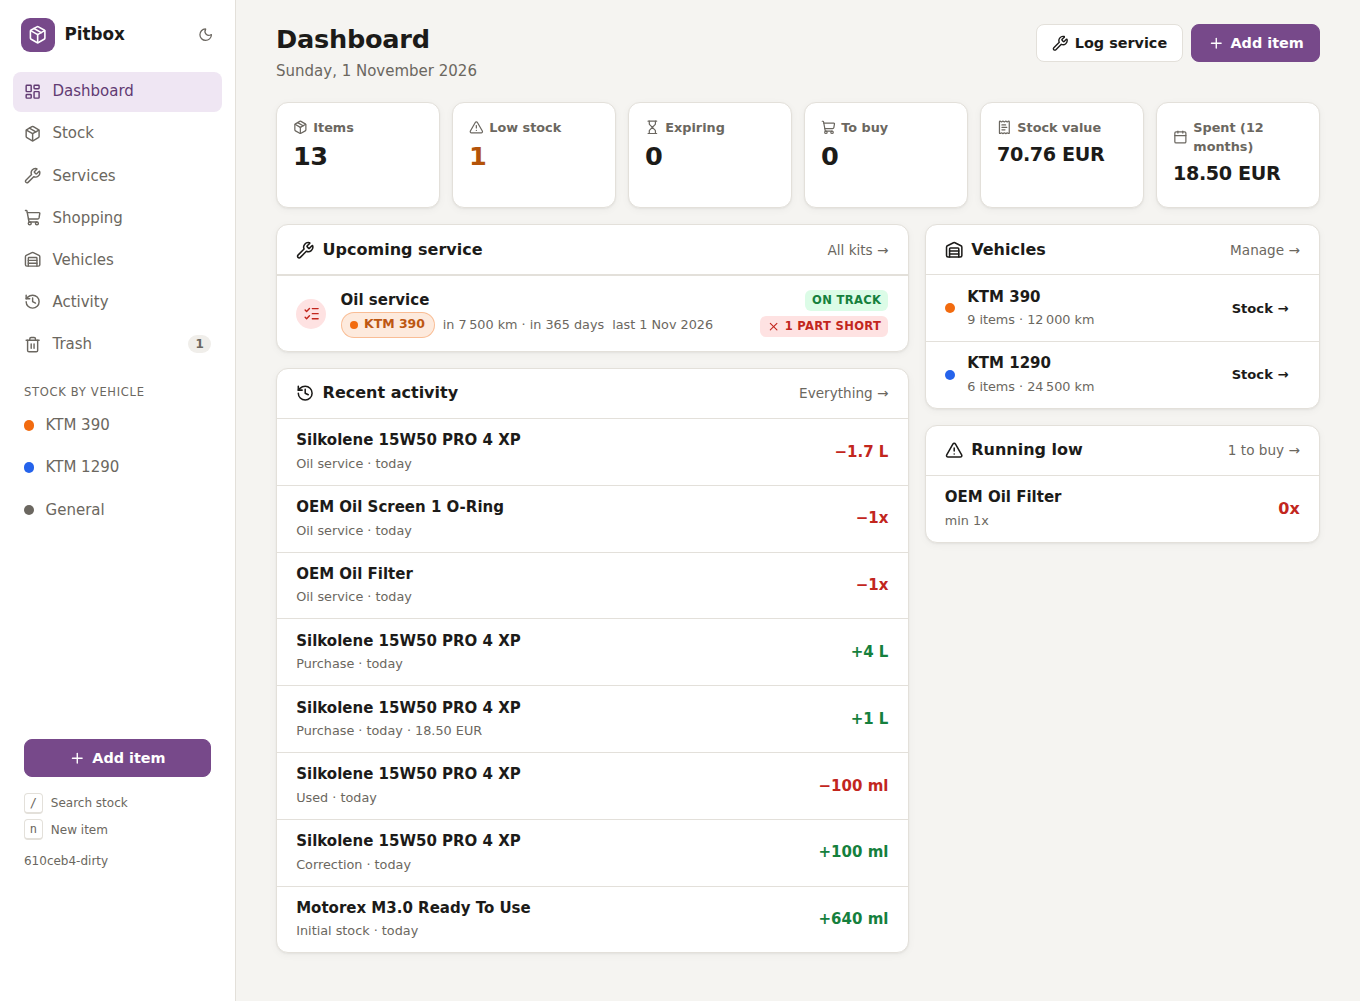
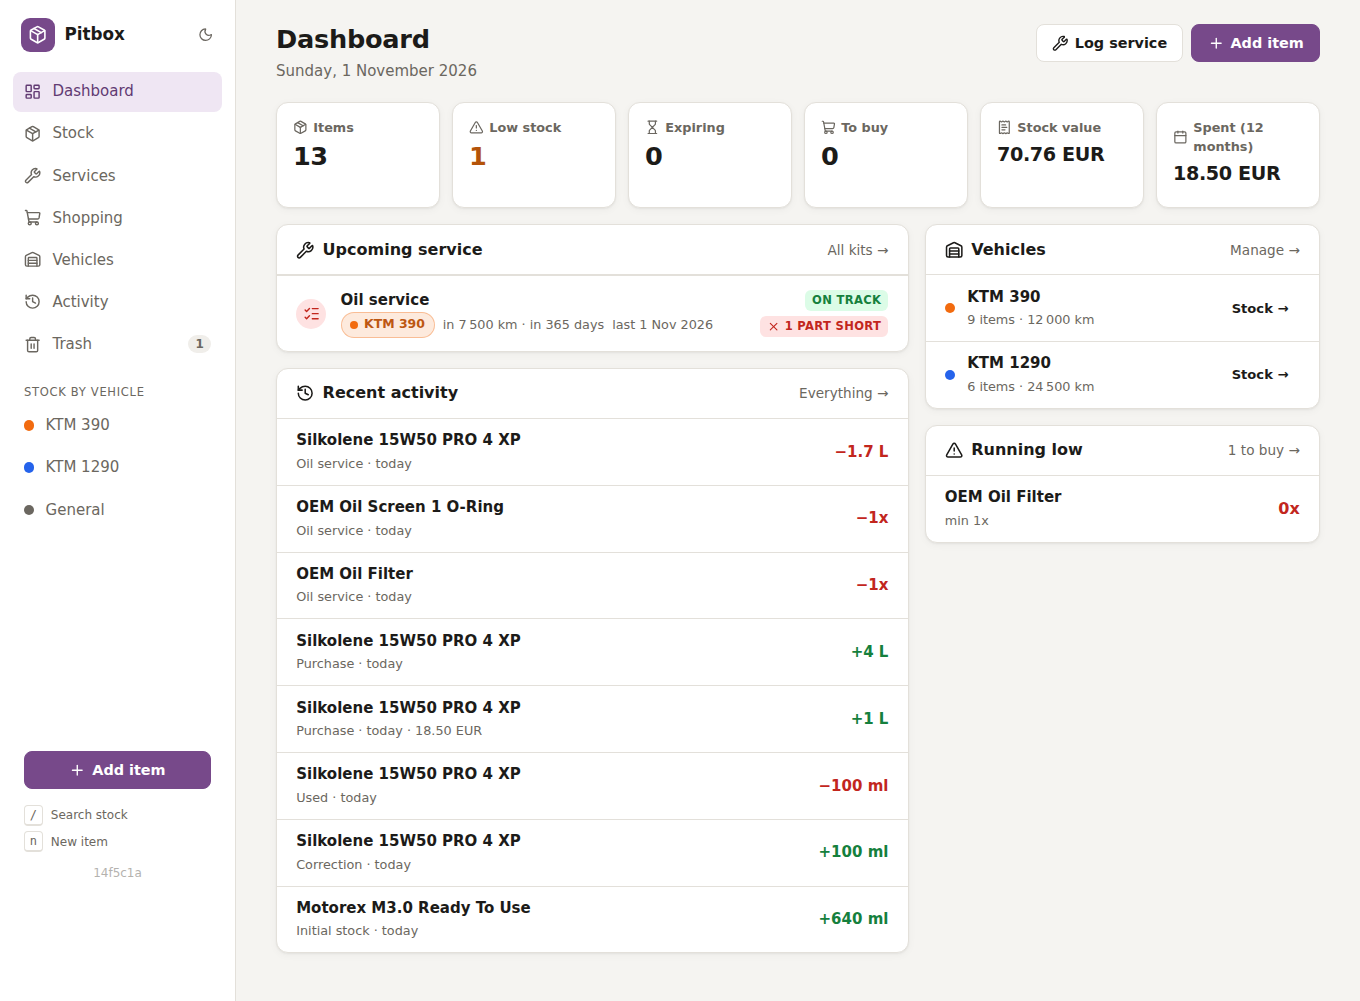
Show dashboard, stock, services and vehicles in the README, light and dark
The README picks the screenshot by the reader's GitHub theme. Drop the
kit and phone shots.

Changed region(s): [[0.0, 0.7123, 0.1544, 0.8981]]

diff --git a/README.md b/README.md
@@ -4,7 +4,10 @@ A small, private garage app for your vehicles: the parts and fluids on the shelf
 
 It is built for one household on a home network: no login, one binary, one Postgres database.
 
-![Dashboard](docs/screenshots/desktop-dashboard.png)
+<picture>
+  <source media="(prefers-color-scheme: dark)" srcset="docs/screenshots/desktop-dashboard-dark.png">
+  <img alt="Dashboard" src="docs/screenshots/desktop-dashboard.png">
+</picture>
 
 ## Features
 
@@ -31,9 +34,9 @@ It is built for one household on a home network: no login, one binary, one Postg
 - **Photos** of items (JPEG, PNG, GIF, WebP or HEIC; shrunk in the browser before upload, then by libvips on the server, and stored in Postgres), best-before dates, storage locations and notes.
 - Works well on a phone in the garage, with dark mode and keyboard shortcuts (`/` search, `n` new item).
 
-| Stock grouped by vehicle | Service kit | Phone |
+| Stock grouped by vehicle | Services and kits | Vehicles |
 |---|---|---|
-| ![Stock](docs/screenshots/desktop-stock.png) | ![Kit](docs/screenshots/desktop-kit.png) | ![Mobile](docs/screenshots/mobile-stock.png) |
+| <picture><source media="(prefers-color-scheme: dark)" srcset="docs/screenshots/desktop-stock-dark.png"><img alt="Stock" src="docs/screenshots/desktop-stock.png"></picture> | <picture><source media="(prefers-color-scheme: dark)" srcset="docs/screenshots/desktop-services-dark.png"><img alt="Services" src="docs/screenshots/desktop-services.png"></picture> | <picture><source media="(prefers-color-scheme: dark)" srcset="docs/screenshots/desktop-vehicles-dark.png"><img alt="Vehicles" src="docs/screenshots/desktop-vehicles.png"></picture> |
 
 ## Quick start
 

diff --git a/docs/development.md b/docs/development.md
@@ -69,8 +69,9 @@ Actions are pinned to commit SHAs and the base images to digests; [Dependabot](.
 
 ```bash
 cd e2e
-SCREENSHOT_DIR=/tmp/shots npx playwright test -g "set up|filter|quick|plan|screenshots"
-cp /tmp/shots/{desktop-dashboard,desktop-stock,desktop-kit,mobile-stock}.png ../docs/screenshots/
+SCREENSHOT_DIR=/tmp/shots npx playwright test --project desktop -g "set up|filter|quick|plan|screenshots"
+SCREENSHOT_DIR=/tmp/shots SCREENSHOT_SCHEME=dark npx playwright test --project desktop -g "set up|filter|quick|plan|screenshots"
+cp /tmp/shots/desktop-{dashboard,stock,services,vehicles}{,-dark}.png ../docs/screenshots/
 ```
 
-This writes one PNG per page and device. Add `SCREENSHOT_SCHEME=dark` for the dark theme (the files end in `-dark`). Only the four the README shows are kept in `docs/screenshots`.
+This writes one PNG per page, and with `SCREENSHOT_SCHEME=dark` the dark theme (the files end in `-dark`); drop `--project desktop` for the phone ones too. Only the four pages the README shows are kept in `docs/screenshots`, light and dark: the README picks one by the reader's GitHub theme (`<picture>`).
